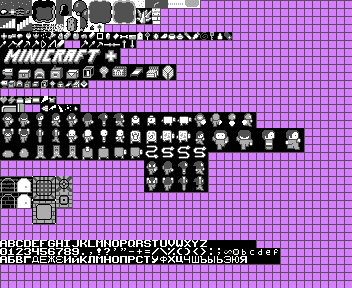
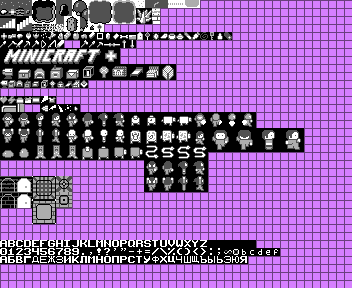
Er, an attenmpt to do everything myself... (How to compile?)

Changed region(s): [[0.3438, 0.875, 0.5625, 0.9375], [0.6875, 0.875, 0.8125, 0.9375], [0.1875, 0.875, 0.3125, 0.9062]]

diff --git a/src/minicraft/gfx/Font.java b/src/minicraft/gfx/Font.java
@@ -1,4 +1,4 @@
-package minicraft.gfx;
+package minicraft.gfx;
 
 import java.util.ArrayList;
 import java.util.Arrays;
@@ -8,7 +8,8 @@ public class Font {
 	// These are all the characters that will be translated to the screen. (The spaces are important)
 	private static String chars = "" + //
                        "ABCDEFGHIJKLMNOPQRSTUVWXYZ      " + //
-                       "0123456789.,!?'\"-+=/\\%()<>:;^@bcdefghijklmnopqrstuvwxyz";//
+					   "0123456789.,!?'\"-+=/\\%()<>:;^@bcdefghijklmnopqrstuvwxyz" +
+					   "АБВГДЕЖЗИКЛМНОПРСТУФХЦЧШЩЪЫЬЭЮЯ";//
 	
 	/* The order of the letters in the chars string is represented in the order that they appear in the sprite-sheet. */
 	
